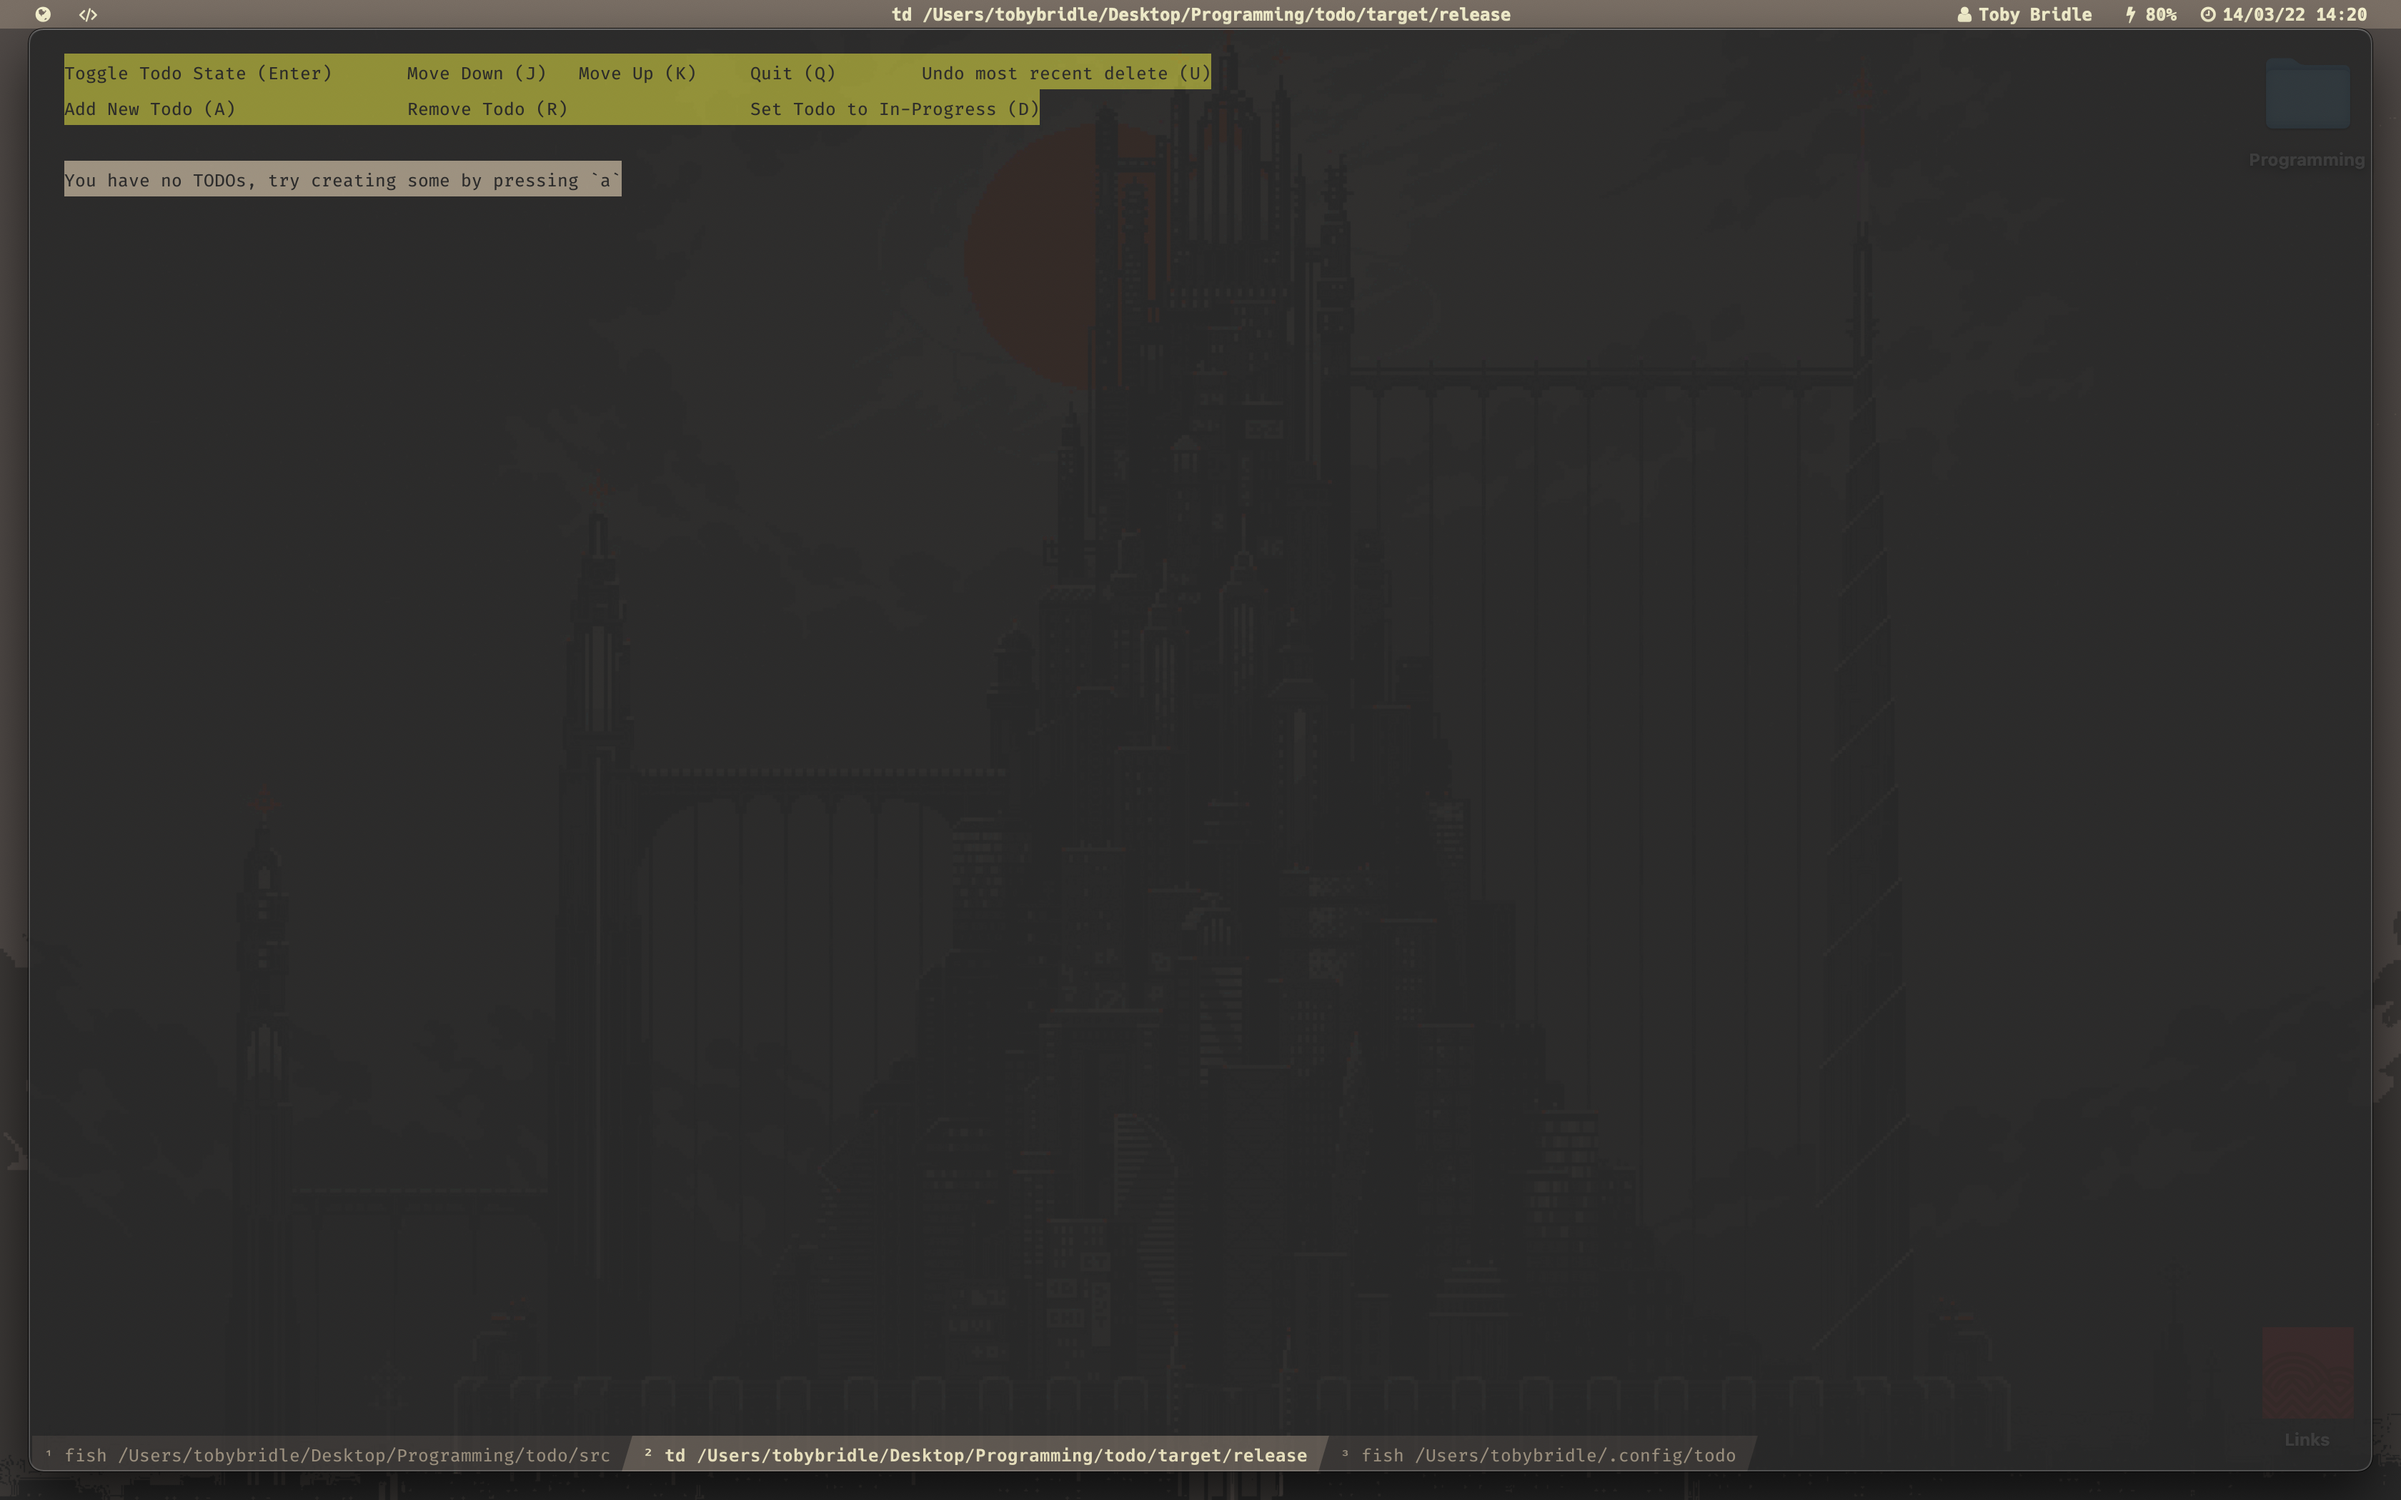
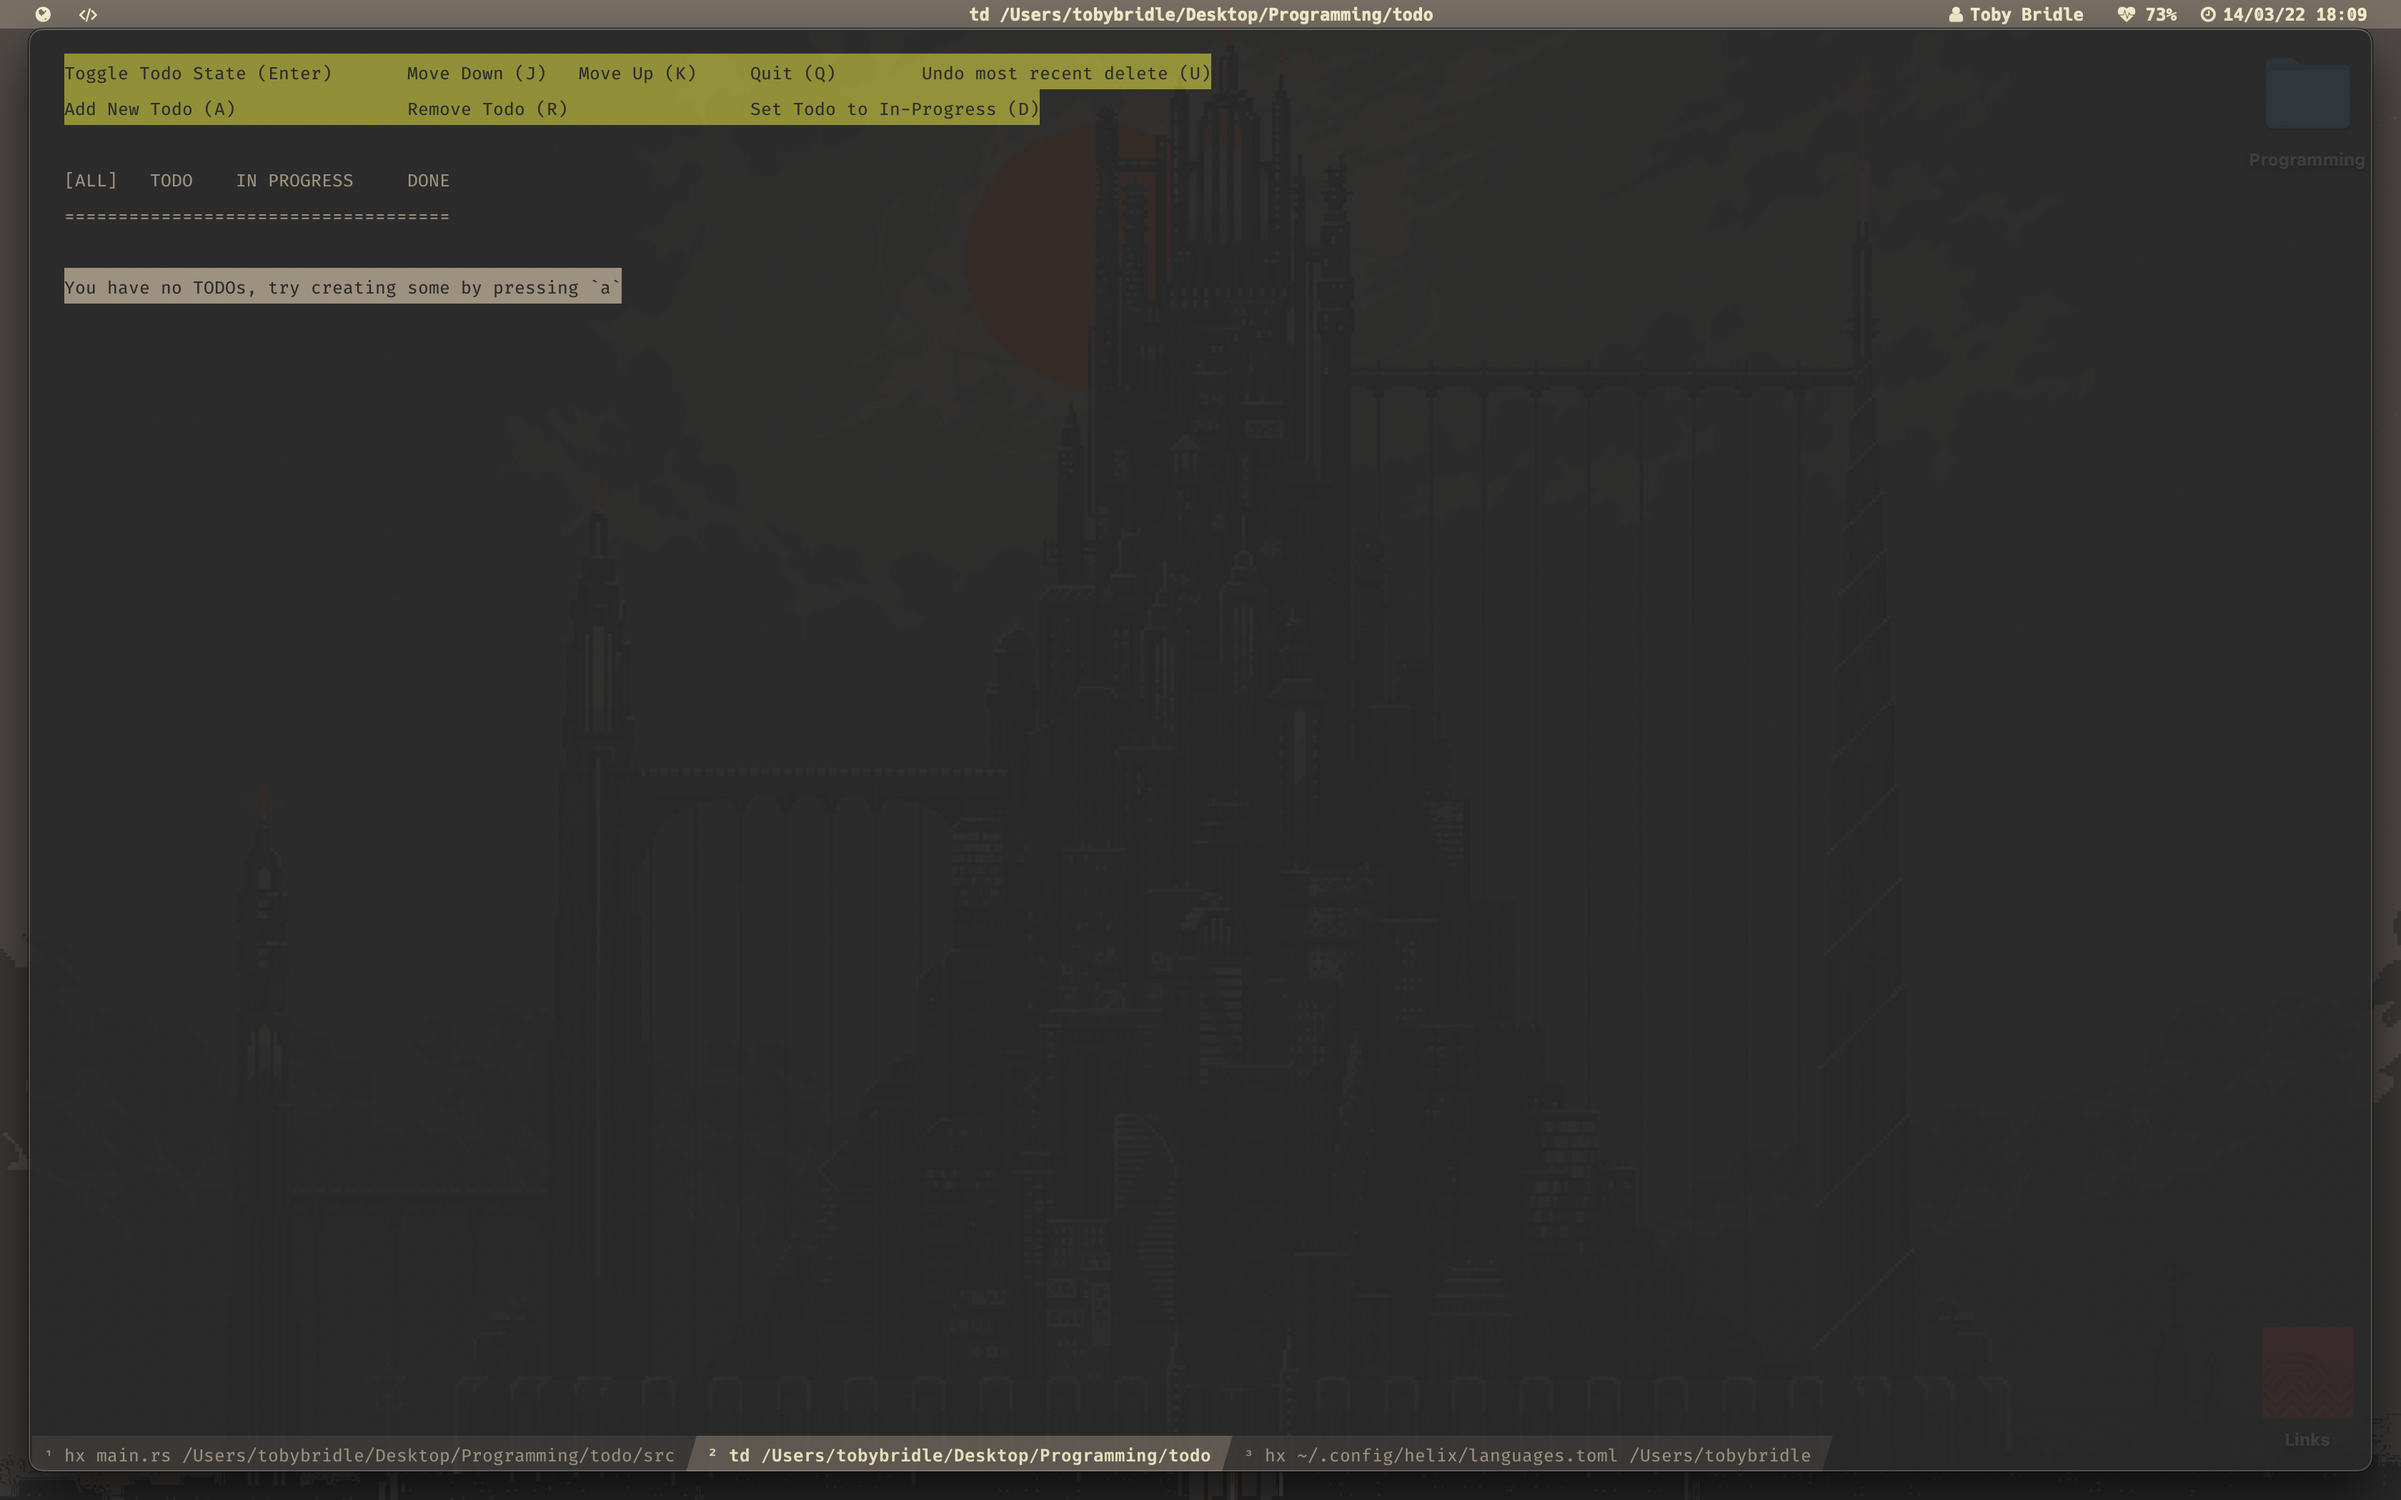
Fixed huge bug where the cursor position was not relative to the filter. Also refactored match cases and the functions they call to be less janky & more readable.

diff --git a/src/main.rs b/src/main.rs
@@ -1,3 +1,4 @@
+
 use ncurses::*;
 
 use std::io::{Write, BufWriter};
@@ -65,7 +66,7 @@ impl Todo {
       self.todos.push(todo);
    }
    
-   pub fn add_todo_prompt(&mut self)
+   pub fn add_todo_prompt(&mut self) -> bool
    {
       clear();
       echo();
@@ -84,42 +85,65 @@ impl Todo {
          ch = getch() as u8 as char;
       }
       
-      if content.trim().len() > 0 && ch as u8 != 27 { self.add_todo(_Todo::new(content.trim().to_string())) };
       noecho();
+
+      if content.trim().len() > 0 && ch as u8 != 27
+      {
+         self.add_todo(_Todo::new(content.trim().to_string()));
+         return true;
+      };
+      return false;
    }
    
-   fn toggle_todo(&mut self, id: i32)
+   fn toggle_todo(&mut self, length: usize, id: i32, controller: &PrintController, cursor_position: usize) -> usize
    {
-      if self.todos.len() == 0 { return; }
+      if length == 0 || id < 0 { return 0; }
       let index = self.todos.iter().position(|todo| todo.id == id).unwrap();
       if matches!(self.todos[index].active, TodoState::Done) {self.todos[index].active = TodoState::NotDone} else { self.todos[index].active = TodoState::Done};
+
+      if (controller.tab == TodoState::Other) { return cursor_position }
+      else if cursor_position + 1 == length && cursor_position > 0 { return cursor_position - 1 }
+      return cursor_position;
    }
    
-   fn set_in_progress(&mut self, id: i32)
+   fn set_in_progress(&mut self, length: usize, id: i32, controller: &PrintController, cursor_position: usize) -> usize
    {
-      if self.todos.len() == 0 { return; }
+      if length == 0 || id < 0 { return 0; }
       let index = self.todos.iter().position(|todo| todo.id == id).unwrap();
       if(matches!(self.todos[index].active, TodoState::InProgress)) { self.todos[index].active = TodoState::NotDone} else { self.todos[index].active = TodoState::InProgress };
-   }
-   
-   fn remove_todo(&mut self, id: usize) -> bool
-   {
-      if self.todos.len() == 0 { return false }
 
-      self.history.push(self.todos[id].clone());
-      self.todos.remove(id);
-      clear();
-      return true;
+      if (controller.tab == TodoState::Other) { return cursor_position }
+      else if cursor_position + 1 == length && cursor_position > 0 { return cursor_position - 1 }
+      return cursor_position;
    }
    
-   fn undo(&mut self) -> i32
+   fn remove_todo(&mut self, length: usize, id: i32, controller: &PrintController, cursor_position: usize) -> usize
+   {
+      if length == 0 || id < 0 { return 0; }
+
+      self.history.push(self.todos[id as usize].clone());
+      self.todos.remove(id as usize);
+      
+      for i in (id as usize)..self.todos.len()
+      {
+         self.todos[i].id -= 1;
+      }
+      
+      clear();
+
+      if cursor_position + 1 == length && cursor_position > 0 { return cursor_position - 1 }
+      return cursor_position;
+   }
+   
+   fn undo(&mut self, length: usize) -> i32
    {
       if(self.history.len() == 0) { return -1 }
-      let prev_todo: _Todo = self.history.pop().unwrap();
-      if self.todos.len() < prev_todo.id as usize {self.todos.push(prev_todo)} else {self.todos.insert(prev_todo.id as usize, prev_todo)};
+      let mut prev_todo: _Todo = self.history.pop().unwrap();
+      prev_todo.id = self.todos.len() as i32;
+      self.todos.push(prev_todo);
 
       clear();
-      return (self.todos.len() - 1) as i32;
+      return length as i32;
    }
    
    fn save(&self, file_path: &str)
@@ -132,7 +156,7 @@ impl Todo {
          let active = 
             if matches!(todo.active, TodoState::Done) {"Done: "}
             else if matches!(todo.active, TodoState::NotDone) {"Not Done: "}
-            else {"IN PROGRESS: "};
+            else {"In Progress: "};
          writer.write(format!("{}{}\n", active, todo.content.trim()).as_bytes()).unwrap();
       }
       writer.flush().expect("Could not write to file!");
@@ -143,8 +167,6 @@ impl Todo {
 //          MAIN METHOD         //
 //==============================//
 
-pub const FILE_PATH: &str = "PATH_TO_YOUR_FILE.todo";
-
 pub const NO_SELECT: i16 = 0;
 pub const SELECT: i16 = 1;
 pub const MENU_BAR: i16 = 2;
@@ -152,13 +174,21 @@ pub const COMPLETED: i16 = 3;
 
 fn navigate_up(todo_len: usize, cursor_position: usize) -> usize
 {
+   if todo_len == 0 || cursor_position == 0 { return 0 };
+   return cursor_position - 1;
+}
+
+fn navigate_down(todo_len: usize, cursor_position: usize) -> usize
+{
    if todo_len == 0 { return 0 };
-   if todo_len- 1 == cursor_position { return cursor_position };
+   if todo_len == cursor_position + 1 { return cursor_position };
    return cursor_position + 1;
 }
 
 fn main()
 {
+   let FILE_PATH: &str = &get_file_env();
+
    initscr();
    noecho();
    curs_set(CURSOR_VISIBILITY::CURSOR_INVISIBLE);
@@ -185,11 +215,14 @@ fn main()
    while run
    {
       mv(0, 0);
+      
       let spacing = print_controls(&controller);
       let mut index: i32 = -1;
+      let mut mapping: Vec<usize> = Vec::new();
+      
       if todos.todos.len() == 0
       {
-         mv(spacing as i32, 0);
+         mv(-1 + spacing as i32, 0);
          attron(COLOR_PAIR(SELECT));
          addstr("You have no TODOs, try creating some by pressing `a`");
          attroff(COLOR_PAIR(SELECT));
@@ -197,29 +230,30 @@ fn main()
       
       for todo in todos.todos.iter()
       {
-         if controller.tab != todo.active && controller.tab != TodoState::Other { continue; }
+         if todo.active != controller.tab && controller.tab != TodoState::Other { continue; }
          index += 1;
+         mapping.push(todo.id as usize);
          let state = if matches!(todo.active, TodoState::NotDone) {"- [ ]\t"} else if matches!(todo.active, TodoState::InProgress) {"- [-]\t"} else {"- [x]\t"};
          let hl: i16 = if index as usize == cursor_position {SELECT} else if matches!(todo.active, TodoState::Done) {COMPLETED} else {NO_SELECT};
-         mv(index + spacing as i32, 0); // Set Cursor to Beginning of next Line
+         mv(index + spacing as i32 - 1, 0); // Set Cursor to Beginning of next Line
          
          attron(COLOR_PAIR(hl));
          addstr(state);
-         addstr(&todo.content);
+         addstr(&todo.content.trim());
          attroff(COLOR_PAIR(hl));
       }
-      
+
       key = getch();
       refresh();
       match key as u8 as char
       {
-         'k' => { cursor_position = if cursor_position == 0 {0} else {cursor_position - 1}}
-         'j' => { cursor_position = navigate_up(todos.todos.len(), cursor_position)}
-         '\n' => { todos.toggle_todo(cursor_position as i32) }
-         'a' => { todos.add_todo_prompt() }
-         'r' => { if todos.remove_todo(cursor_position) {cursor_position = if cursor_position == 0 {0} else {cursor_position - 1}}}
-         'd' => { todos.set_in_progress(cursor_position as i32) }
-         'u' => { let pos = todos.undo(); cursor_position  = if pos == -1 {cursor_position} else {pos as usize}}
+         'k' => { cursor_position = navigate_up(mapping.len(), cursor_position)}
+         'j' => { cursor_position = navigate_down(mapping.len(), cursor_position)}
+         '\n' => { cursor_position = todos.toggle_todo(mapping.len(), if mapping.len() > cursor_position { mapping[cursor_position] as i32 } else { -1 }, &controller, cursor_position); }
+         'a' => { cursor_position = if todos.add_todo_prompt() { mapping.len() } else { cursor_position } }
+         'r' => { cursor_position = todos.remove_todo(mapping.len(), if mapping.len() > cursor_position { mapping[cursor_position] as i32} else { -1 }, &controller, cursor_position) }
+         'd' => { cursor_position = todos.set_in_progress(mapping.len(), if mapping.len() > cursor_position { mapping[cursor_position] as i32} else { -1}, &controller, cursor_position)}
+         'u' => { let pos = todos.undo(mapping.len()); cursor_position  = if pos == -1 {cursor_position} else {pos as usize}}
          'q' => { run = false; },
          's' => { todos.save(FILE_PATH) }
          '\t' => { controller.cycle_tab(); cursor_position = 0; }

diff --git a/src/utils/file.rs b/src/utils/file.rs
@@ -5,6 +5,15 @@ pub mod utils
    use crate::_Todo;
    use crate::Todo;
    use crate::TodoState;
+   
+   pub fn get_file_env() -> String
+   {
+      match std::env::var("TODO_FILE_LOCATION")
+      {
+         Ok(val) => return val,
+         Err(_e) => { println!("Could not find environment variable TODO_FILE_LOCATION!"); std::process::exit(1); }
+      }
+   }
 
    pub fn load_from_file(file_path: &str, todo_container: &mut Todo) -> Result<(), std::io::Error>
    {
@@ -15,7 +24,7 @@ pub mod utils
          let _line = line?.clone();
          let active = 
          {
-            if _line.starts_with("NOT Done: ") { TodoState::NotDone }
+            if _line.starts_with("Not Done: ") { TodoState::NotDone }
             else if _line.starts_with("Done: ") { TodoState::Done }
             else { TodoState::InProgress }
          };
